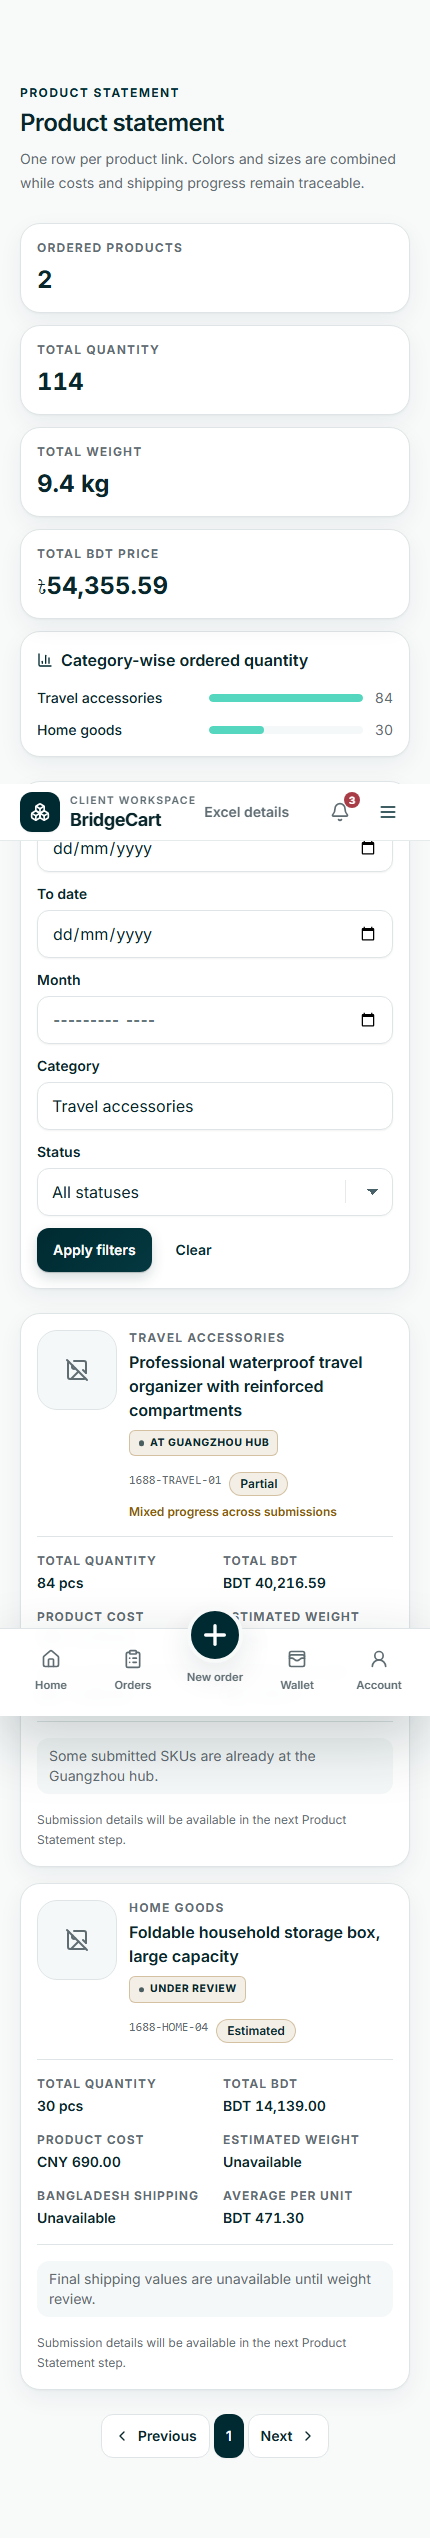
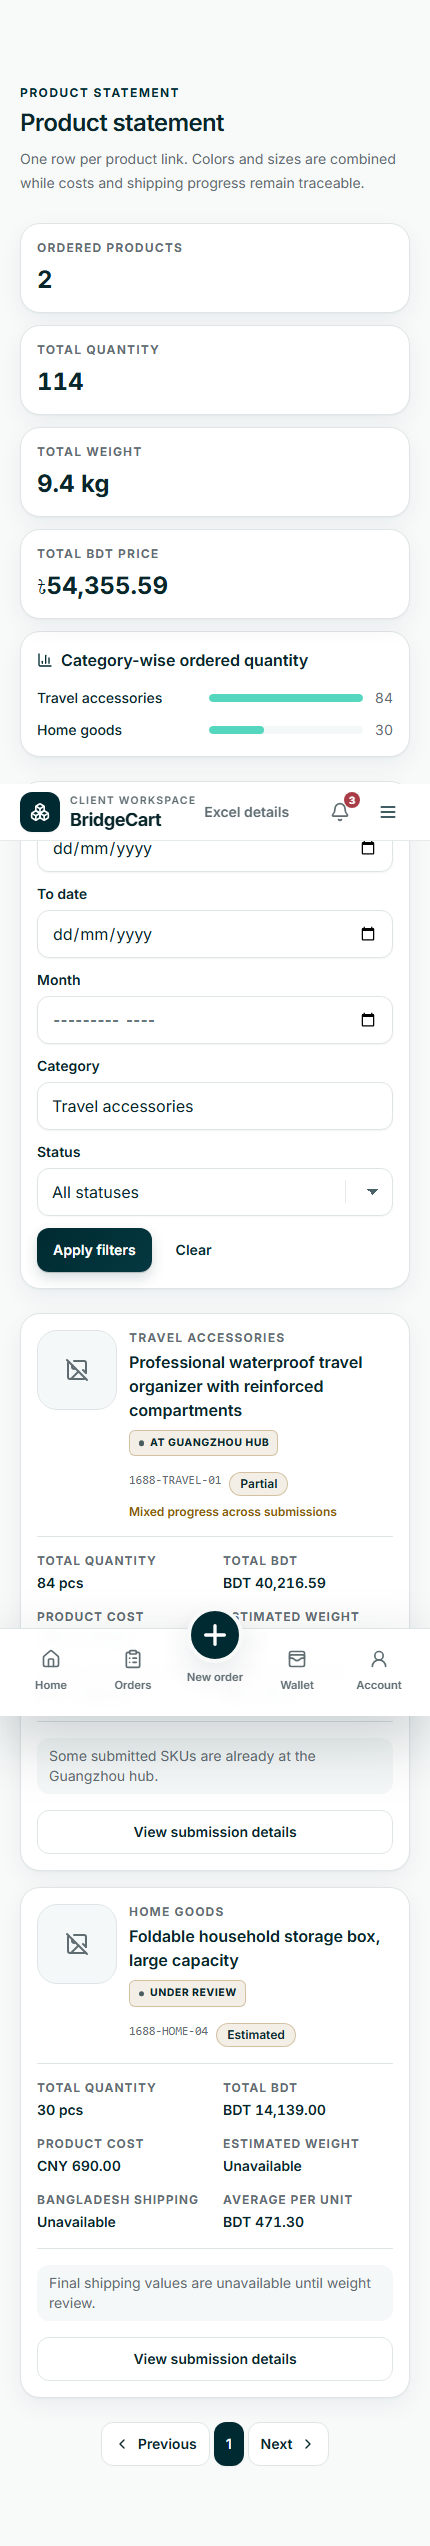
test: lock client order flow regression

diff --git a/components/client/client-product-statement.tsx b/components/client/client-product-statement.tsx
@@ -63,7 +63,7 @@ function StatementCards({ rows }: { rows: StatementRow[] }) { return <div data-u
 function StatementCard({ row }: { row: StatementRow }) { return <Card data-ui="product-statement-card" className="overflow-hidden p-4 shadow-soft sm:p-5"><div className="flex items-start gap-3"><ProductImage images={row.product_images} /><div className="min-w-0 flex-1"><div className="flex flex-wrap items-start justify-between gap-2"><div className="min-w-0"><p className="text-xs font-bold uppercase tracking-[0.1em] text-muted">{row.category || "Uncategorized"}</p><h2 className="mt-1 break-words text-base font-semibold leading-6">{row.product_title || "Supplier product"}</h2></div><StatusBadge status={row.status} /></div><div className="mt-2 flex flex-wrap items-center gap-2"><p className="font-mono text-xs text-muted">{row.product_code || "Product code unavailable"}</p><CostStateBadge state={row.cost_state} /></div>{row.mixed_progress && <p className="mt-2 text-xs font-semibold text-warning">Mixed progress across submissions</p>}</div></div><div className="mt-4 grid grid-cols-2 gap-x-4 gap-y-4 border-y border-border py-4 text-sm"><StatementValue label="Total quantity" value={`${formatNumber(row.total_quantity)} pcs`} /><StatementValue label="Total BDT" value={<MoneyValue value={row.total_bdt} currency="BDT" />} /><StatementValue label="Product cost" value={<MoneyValue value={row.product_amount_cny} currency="CNY" />} /><StatementValue label="Estimated weight" value={row.total_weight_kg === null ? "Unavailable" : `${formatNumber(row.total_weight_kg, 3)} kg`} /><StatementValue label="Bangladesh shipping" value={<MoneyValue value={row.bangladesh_shipping_bdt} currency="BDT" />} /><StatementValue label="Average per unit" value={<MoneyValue value={row.average_unit_cost_bdt} currency="BDT" />} /></div>{row.note && <p className="mt-4 rounded-control bg-surface-muted px-3 py-2 text-sm leading-5 text-muted">{row.note}</p>}<Link href={`/client/excel-details/${row.product_link_id}`} className={buttonClasses({ variant: "outline", size: "sm", className: "mt-4 w-full" })}>View submission details</Link></Card>; }
 function StatementValue({ label, value }: { label: string; value: React.ReactNode }) { return <div className="min-w-0"><p className="text-xs font-bold uppercase tracking-[0.08em] text-muted">{label}</p><div className="mt-1 break-words font-semibold text-foreground">{value}</div></div>; }
 function MoneyValue({ value, currency }: { value: number | string | null; currency: "CNY" | "BDT" }) { return value === null ? "Unavailable" : <PriceDisplay value={value} currency={currency} showCode size="sm" />; }
-function StatementTable({ rows }: { rows: StatementRow[] }) { return <div data-ui="product-statement-table" className="overflow-x-auto rounded-card border border-border bg-surface shadow-soft"><table className="min-w-[1550px] w-full text-left text-sm"><thead className="bg-surface-muted text-xs uppercase tracking-wide text-muted"><tr><th className="p-3">Product picture</th><th>Product amount</th><th>Local delivery</th><th>Weight</th><th>Quantity</th><th>To Guangzhou</th><th>BD shipping</th><th>Service (6%)</th><th>Total</th><th>Avg. unit</th><th>Status</th><th className="p-3">Note</th></tr></thead><tbody className="divide-y divide-border">{rows.map((row) => <tr key={row.product_link_id} className="align-top"><td className="p-3"><div className="flex min-w-24 flex-col gap-2"><ProductImage images={row.product_images} /><p className="text-xs text-muted">Code: {row.product_code || "—"}</p><CostStateBadge state={row.cost_state} /></div></td><MoneyCell value={row.product_amount_cny} currency="CNY" /><MoneyCell value={row.local_delivery_cny} currency="CNY" /><td>{row.total_weight_kg === null ? "—" : `${formatNumber(row.total_weight_kg, 3)} kg`}</td><td className="tabular-nums">{formatNumber(row.total_quantity)}</td><MoneyCell value={row.guangzhou_cost_cny} currency="CNY" /><MoneyCell value={row.bangladesh_shipping_bdt} currency="BDT" /><MoneyCell value={row.service_charge_cny} currency="CNY" /><MoneyCell value={row.total_bdt} currency="BDT" /><MoneyCell value={row.average_unit_cost_bdt} currency="BDT" /><td><StatusBadge status={row.status} />{row.mixed_progress && <p className="mt-1 text-xs font-medium text-warning">Mixed progress</p>}</td><td className="max-w-64 whitespace-normal p-3 text-muted">{row.note || "—"}</td></tr>)}</tbody></table></div>; }
+function StatementTable({ rows }: { rows: StatementRow[] }) { return <div data-ui="product-statement-table" className="overflow-x-auto rounded-card border border-border bg-surface shadow-soft"><table className="min-w-[1550px] w-full text-left text-sm"><thead className="bg-surface-muted text-xs uppercase tracking-wide text-muted"><tr><th className="p-3">Product picture</th><th>Product amount</th><th>Local delivery</th><th>Weight</th><th>Quantity</th><th>To Guangzhou</th><th>BD shipping</th><th>Service (6%)</th><th>Total</th><th>Avg. unit</th><th>Status</th><th>Details</th><th className="p-3">Note</th></tr></thead><tbody className="divide-y divide-border">{rows.map((row) => <tr key={row.product_link_id} className="align-top"><td className="p-3"><div className="flex min-w-24 flex-col gap-2"><ProductImage images={row.product_images} /><p className="text-xs text-muted">Code: {row.product_code || "—"}</p><CostStateBadge state={row.cost_state} /></div></td><MoneyCell value={row.product_amount_cny} currency="CNY" /><MoneyCell value={row.local_delivery_cny} currency="CNY" /><td>{row.total_weight_kg === null ? "—" : `${formatNumber(row.total_weight_kg, 3)} kg`}</td><td className="tabular-nums">{formatNumber(row.total_quantity)}</td><MoneyCell value={row.guangzhou_cost_cny} currency="CNY" /><MoneyCell value={row.bangladesh_shipping_bdt} currency="BDT" /><MoneyCell value={row.service_charge_cny} currency="CNY" /><MoneyCell value={row.total_bdt} currency="BDT" /><MoneyCell value={row.average_unit_cost_bdt} currency="BDT" /><td><StatusBadge status={row.status} />{row.mixed_progress && <p className="mt-1 text-xs font-medium text-warning">Mixed progress</p>}</td><td><Link href={`/client/excel-details/${row.product_link_id}`} className={buttonClasses({ variant: "outline", size: "sm", className: "whitespace-nowrap" })}>View submission details</Link></td><td className="max-w-64 whitespace-normal p-3 text-muted">{row.note || "—"}</td></tr>)}</tbody></table></div>; }
 function ProductImage({ images }: { images: string[] | null }) { return <ProductThumbnail src={images?.[0]} alt="Product" size="lg" />; }
 function MoneyCell({ value, currency }: { value: number | string | null; currency: "CNY" | "BDT" }) { return <td className="whitespace-nowrap">{value === null ? "—" : <PriceDisplay value={value} currency={currency} showCode size="sm" />}</td>; }
 function CostStateBadge({ state }: { state: CostState }) { const presentation = { actual: ["Actual", "success"], estimated: ["Estimated", "warning"], partial: ["Partial", "gold"], unavailable: ["Not available", "neutral"] } as const; const [label, variant] = presentation[state]; return <Badge variant={variant} className="mt-2">{label}</Badge>; }

diff --git a/tests/visual/client/order-flow.visual.spec.ts b/tests/visual/client/order-flow.visual.spec.ts
@@ -1,0 +1,85 @@
+import { expect, test } from "@playwright/test";
+import { mkdir } from "node:fs/promises";
+import path from "node:path";
+
+const resolvedProduct = {
+  productId: "fixture-product",
+  provider: "alibaba1688",
+  providerItemId: "816432828739",
+  originalUrl: "https://detail.1688.com/offer/816432828739.html",
+  title: "Professional waterproof travel organizer with reinforced compartments",
+  images: ["/placeholder-product.svg?view=front", "/placeholder-product.svg?view=detail"],
+  category: "Travel bags and organizers",
+  domesticDeliveryCny: 6,
+  priceMinCny: 18.8,
+  priceMaxCny: 22.5,
+  skus: [
+    { skuId: "navy-s", providerSkuId: "navy-s", label: "Navy / Small", attributes: { Color: "Navy", Size: "Small" }, priceCny: 18.8, availableQuantity: 42, imageUrl: "/placeholder-product.svg?color=navy" },
+    { skuId: "navy-m", providerSkuId: "navy-m", label: "Navy / Medium", attributes: { Color: "Navy", Size: "Medium" }, priceCny: 20.2, availableQuantity: 18, imageUrl: "/placeholder-product.svg?color=navy" },
+    { skuId: "ivory-s", providerSkuId: "ivory-s", label: "Ivory / Small", attributes: { Color: "Ivory", Size: "Small" }, priceCny: 18.8, availableQuantity: 31, imageUrl: "/placeholder-product.svg?color=ivory" },
+  ],
+};
+
+test("Subphase 7H locks the deterministic client ordering journey", async ({ page }, testInfo) => {
+  await page.emulateMedia({ reducedMotion: "reduce" });
+  await page.route("**/api/products/resolve-link", async (route) => {
+    // Keep the deterministic response briefly pending so the real loading state is asserted.
+    await new Promise((resolve) => setTimeout(resolve, 150));
+    await route.fulfill({ contentType: "application/json", body: JSON.stringify({ data: resolvedProduct }) });
+  });
+  await page.route("**/api/client/order-review-context", async (route) => route.fulfill({ contentType: "application/json", body: JSON.stringify({ data: { clientId: "fixture-client", totals: { availableBalanceCny: 50 }, exchangeRate: { cnyToBdt: 19.5, effectiveOn: "2026-09-04" } } }) }));
+  await page.route("**/api/orders/confirm", async (route) => route.fulfill({ contentType: "application/json", body: JSON.stringify({ data: { clientId: "fixture-client", productOrderId: "product-order-1", orderNumber: "PORD-TEST-0001", submittedAt: "2026-09-04T12:30:00.000Z", status: "pending_admin_review", pendingPayment: false, requiredAmountCny: 18.8, reservedAmountCny: 18.8, uncoveredAmountCny: 0, appliedRate: 19.5, orderItems: [{ orderItemId: "order-item-1", skuId: "navy-s", status: "pending_admin_review" }] } }) }));
+
+  await page.goto("/design-system/client/pages/new-order");
+  await page.locator("nextjs-portal").evaluateAll((portals) => portals.forEach((portal) => portal.remove()));
+  await page.evaluate(() => document.fonts.ready);
+
+  await page.getByRole("textbox", { name: "Product link" }).fill("https://detail.1688.com/offer/816432828739.html");
+  await page.getByRole("button", { name: "Resolve product" }).click();
+  await expect(page.locator('[data-ui="product-loading"]')).toBeVisible();
+  await expect(page.getByRole("heading", { name: resolvedProduct.title })).toBeVisible();
+
+  const isPhone = ["mobile-430", "small-phone-320"].includes(testInfo.project.name);
+  if (isPhone) {
+    await page.getByRole("button", { name: /Increase Small quantity/i }).click();
+    await page.getByRole("button", { name: "Review estimate", exact: true }).click();
+  } else {
+    const smallRow = page.locator("tbody tr").filter({ hasText: "Small" });
+    await smallRow.getByRole("button", { name: "Select", exact: true }).click();
+    await page.getByRole("button", { name: "Review estimate", exact: true }).last().click();
+  }
+
+  await expect(page.getByRole("heading", { name: "Review your order estimate" })).toBeVisible();
+  await page.getByRole("spinbutton", { name: "Approximate unit weight (g)" }).fill("400");
+  await page.getByRole("textbox", { name: "Shipping category" }).fill("Wallet");
+  await page.getByRole("button", { name: /Wallet.*Tk 750\/kg/ }).click();
+  await expect(page.getByRole("textbox", { name: "Shipping category" })).toHaveValue("Wallet");
+  await expect(page.getByText("Estimate breakdown")).toBeVisible();
+  await page.getByRole("button", { name: "Confirm order" }).click();
+
+  const result = page.locator('[data-page-section="order-confirmation-result"]');
+  await expect(result.getByRole("heading", { name: "Your product order is confirmed" })).toBeVisible();
+  await expect(result.getByText("PORD-TEST-0001")).toBeVisible();
+  await expect(result.getByRole("link", { name: "Product Statement" })).toHaveAttribute("href", "/client/excel-details");
+  await expect.poll(() => page.evaluate(() => document.documentElement.scrollWidth <= window.innerWidth)).toBe(true);
+
+  const captureDirectory = path.join(process.cwd(), "design", "review", "client-phase-7", "order-flow", "captures");
+  await mkdir(captureDirectory, { recursive: true });
+  await page.screenshot({ path: path.join(captureDirectory, `${testInfo.project.name}-confirmation.png`), fullPage: true, animations: "disabled" });
+
+  await page.goto("/design-system/client/pages/product-statement");
+  await expect(page.getByRole("heading", { name: "Product statement" })).toBeVisible();
+  const cards = page.locator('[data-ui="product-statement-cards"]');
+  const table = page.locator('[data-ui="product-statement-table"]');
+  if (["mobile-430", "small-phone-320", "tablet-768"].includes(testInfo.project.name)) await expect(cards).toBeVisible();
+  else await expect(table).toBeVisible();
+  await expect(page.getByRole("link", { name: /View submission details/i }).first()).toHaveAttribute("href", /\/client\/excel-details\//);
+  await expect.poll(() => page.evaluate(() => document.documentElement.scrollWidth <= window.innerWidth)).toBe(true);
+
+  await page.goto("/design-system/client/pages/product-statement-detail");
+  await expect(page.getByRole("heading", { name: /Professional waterproof travel organizer/ })).toBeVisible();
+  await page.getByRole("button", { name: /PORD-TEST-0001/ }).click();
+  await expect(page.getByText("Navy / Small")).toBeVisible();
+  await expect.poll(() => page.evaluate(() => document.documentElement.scrollWidth <= window.innerWidth)).toBe(true);
+  await page.screenshot({ path: path.join(captureDirectory, `${testInfo.project.name}-statement-detail.png`), fullPage: true, animations: "disabled" });
+});
